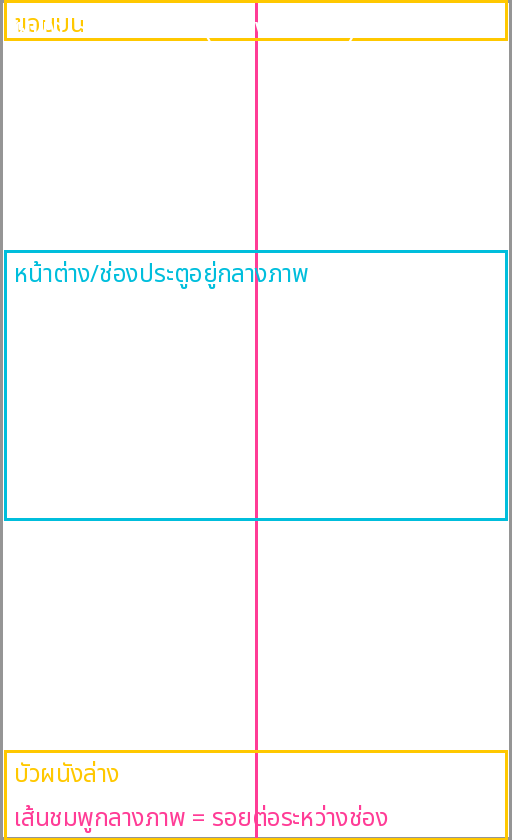
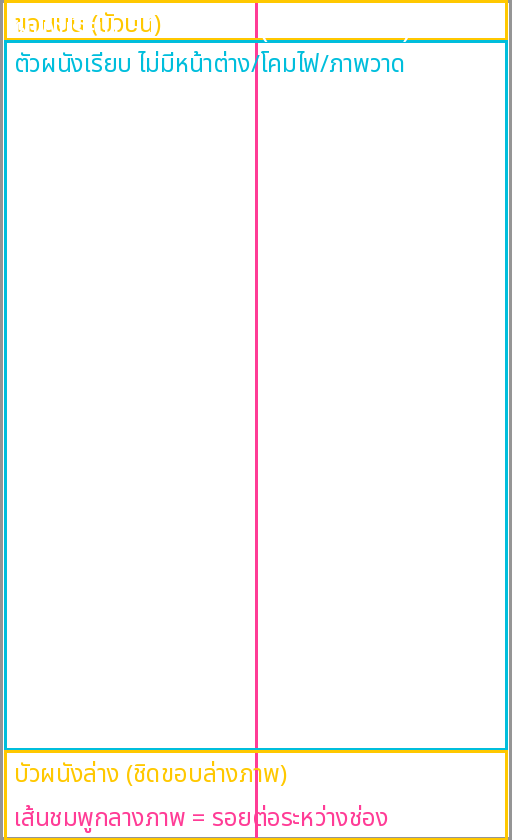
Plain wall template and example (windows, lamps, paintings are separate overlays)
Claude-Session: https://claude.ai/code/session_017R2xVMGFyizhgT3oNq3RGh

diff --git a/tools/make_examples.py b/tools/make_examples.py
@@ -140,4 +140,15 @@ poly(d, [(24, 560), (232, 560), (232, 590), (24, 590)], (150, 100, 70, 255), OL,
 g = Image.new('RGBA', (256, 840), (0, 0, 0, 0)); gd = ImageDraw.Draw(g)
 gd.rectangle([0, 0, 255, 839], outline=GUIDE, width=3)
 done(im, 'example_wall_overlay_window.png', 'หน้าต่างแยกชิ้น 256x840 (โปร่งใสรอบๆ)', g)
+# plain wall 512 x 840
+im = new(512, 840); d = ImageDraw.Draw(im)
+poly(d, [(0, 0), (512, 0), (512, 840), (0, 840)], (240, 228, 200, 255))
+for x in range(0, 512, 64): d.line(P([(x, 40), (x, 750)]), fill=(232, 219, 188, 255), width=2 * S)
+poly(d, [(0, 0), (512, 0), (512, 40), (0, 40)], (150, 100, 70, 255))
+poly(d, [(0, 750), (512, 750), (512, 840), (0, 840)], (150, 100, 70, 255))
+d.line(P([(0, 750), (512, 750)]), fill=OL, width=5 * S)
+d.line(P([(0, 40), (512, 40)]), fill=OL, width=5 * S)
+g = Image.new('RGBA', (512, 840), (0, 0, 0, 0)); gd = ImageDraw.Draw(g)
+gd.line([(256, 0), (256, 840)], fill=(255, 60, 150, 255), width=3)
+done(im, 'example_wall_plain.png', 'ผนังเรียบ: ซ้ายขวาไม่มีเส้นขอบตั้ง', g)
 print('ok')

diff --git a/tools/make_templates.py b/tools/make_templates.py
@@ -72,8 +72,8 @@ def wall(name, w, h, title, zones):
         d.text((14, y0 + 6), txt, font=font(24), fill=col)
     d.text((14, 8), title, font=font(28), fill=(255, 255, 255, 255))
     im.save(f'{OUT}/{name}')
-wall('tpl_wall_512x840.png', 512, 840, 'ผนัง 512 x 840 (กว้าง 2 ช่อง)', [
-    (0, 40, 'ขอบบน', YL), (250, 520, 'หน้าต่าง/ช่องประตูอยู่กลางภาพ', CY), (750, 840, 'บัวผนังล่าง', YL)])
+wall('tpl_wall_512x840.png', 512, 840, 'ผนังเรียบ 512 x 840 (กว้าง 2 ช่อง)', [
+    (0, 40, 'ขอบบน (บัวบน)', YL), (40, 750, 'ตัวผนังเรียบ ไม่มีหน้าต่าง/โคมไฟ/ภาพวาด', CY), (750, 840, 'บัวผนังล่าง (ชิดขอบล่างภาพ)', YL)])
 wall('tpl_wall_low_512x112.png', 512, 112, 'ผนังเตี้ย 512 x 112', [(0, 24, 'ขอบบน', YL)])
 d2 = ImageDraw.Draw(Image.new('RGBA', (1, 1)))
 for n in ('tpl_wall_512x840.png', 'tpl_wall_low_512x112.png'):
